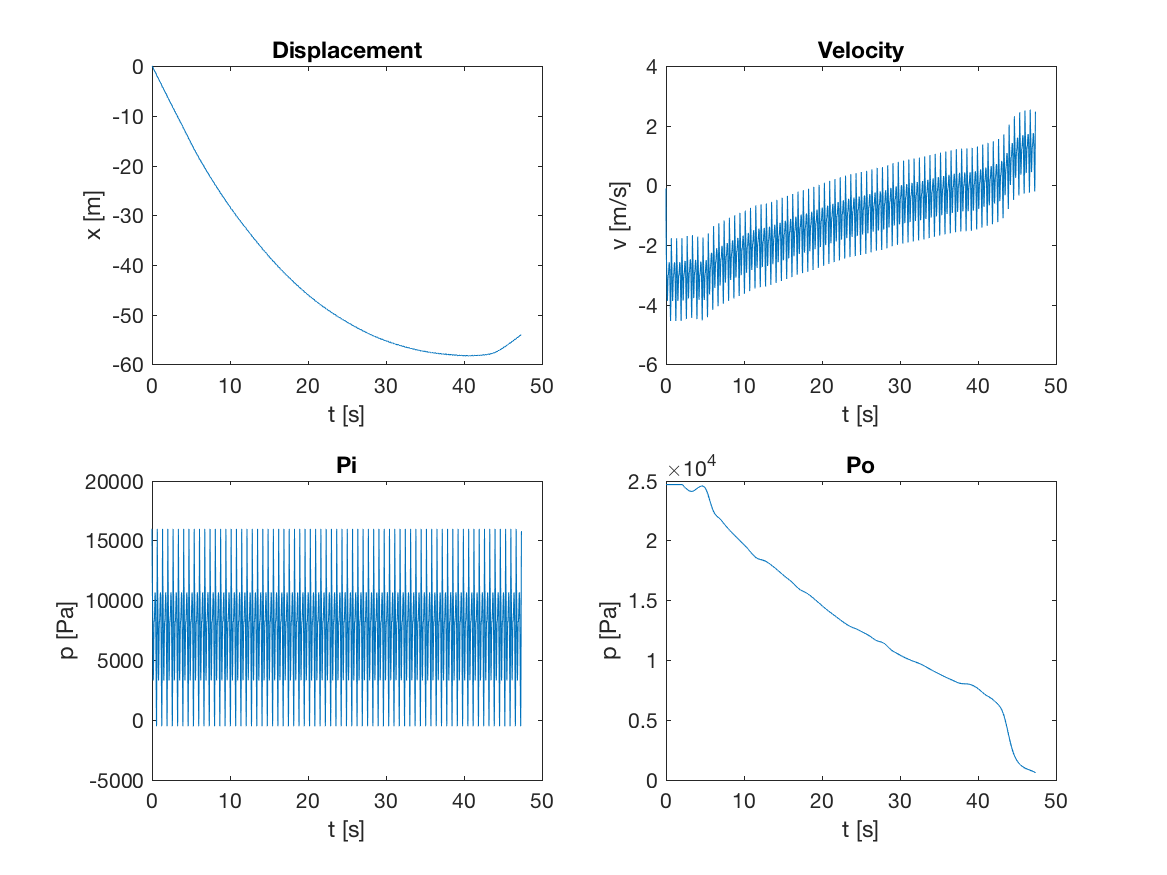
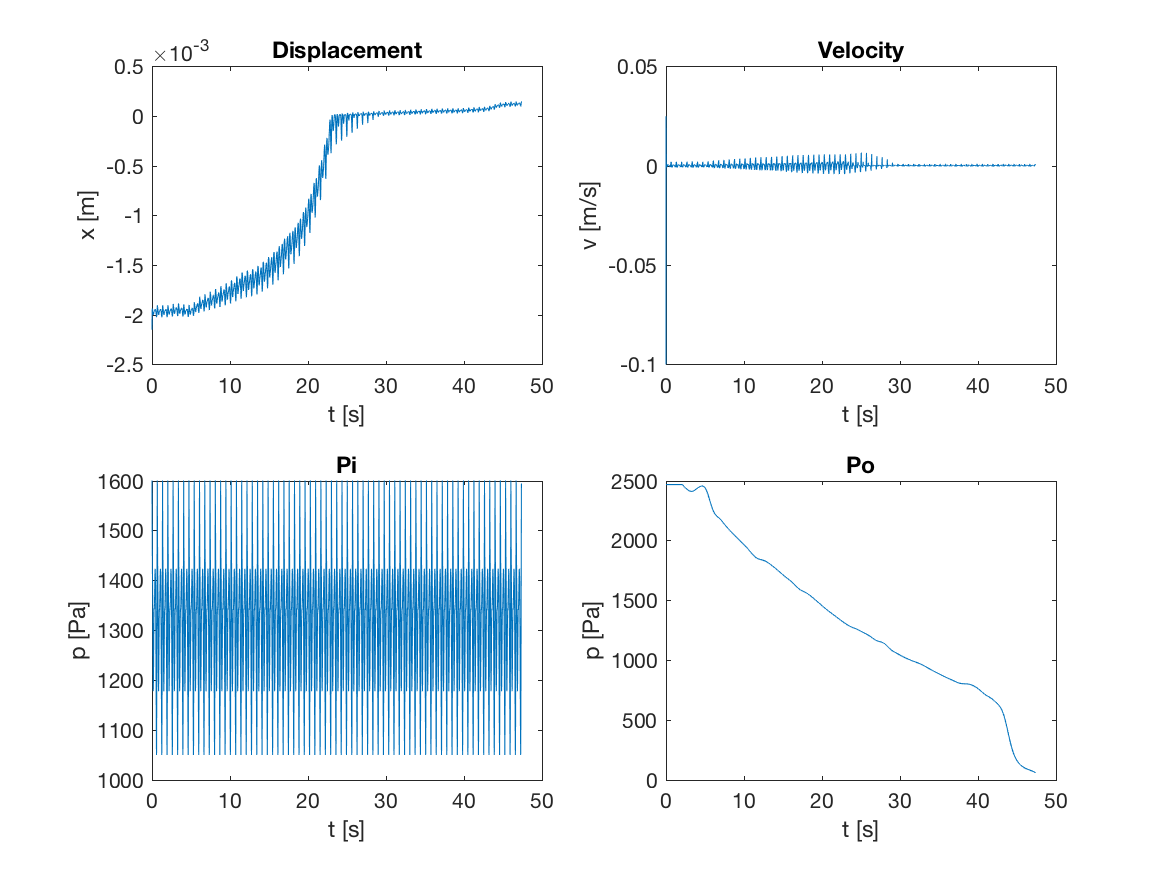
Fixing constant parameter.

diff --git a/vdpRK4.m b/vdpRK4.m
@@ -5,7 +5,7 @@ clc
 y0 = -2.1e-3;               %% Initial position [m]
 ydot0 = -0.1;               %% Initial velocity [m/s]
 
-D = 7.38e1;                 %% Damping modulus [Pas]
+D = 7.38e2;                 %% Damping modulus [Pas]
 E = 1.4e5;                  %% Elastic modulus [Pa]
 h0 = 3e-04;                 %% Zero pressure wall thickness [m]
 r0 = 2e-03;                 %% Zero pressure internal radius [m]
